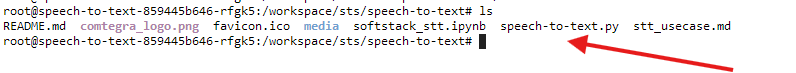
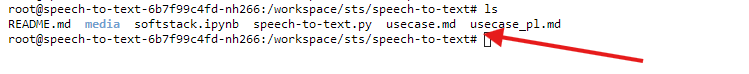
remove st_audiorec, change README and UseCase_5 photo

diff --git a/speech-to-text.py b/speech-to-text.py
@@ -4,7 +4,6 @@ from transformers import AutoModelForSpeechSeq2Seq, AutoProcessor, pipeline
 import io
 import numpy as np
 from pydub import AudioSegment
-from st_audiorec import st_audiorec
 from langdetect import detect
 from audiorecorder import audiorecorder
 

diff --git a/README.md b/README.md
@@ -3,14 +3,14 @@
   <h1 align="center">Speech-To-Text</h1>
 </a>
 
-<p align="center">
-  A simple open source Speech-To-Text app. Powered by Comtegra GPU Cloud and Whisper. Made with ❤ by <a href="https://cgc.comtegra.cloud/">Comtegra S.A.</a>
-</p>
+<p align="center">A simple open source Speech-To-Text app. Powered by Comtegra GPU Cloud and Whisper.</p> 
 
 <p align="center">
 <b>whisper-large-v3:</b> 5 minutes of audio → 35 seconds of processing<br>
 <b>whisper-large-v3-turbo:</b> 5 minutes of audio → 8 seconds of processing
 </p>
+
+<p align="center">Made with ❤ by <a href="https://cgc.comtegra.cloud/">Comtegra S.A.</a></p>
 
 # Tech stack
 
